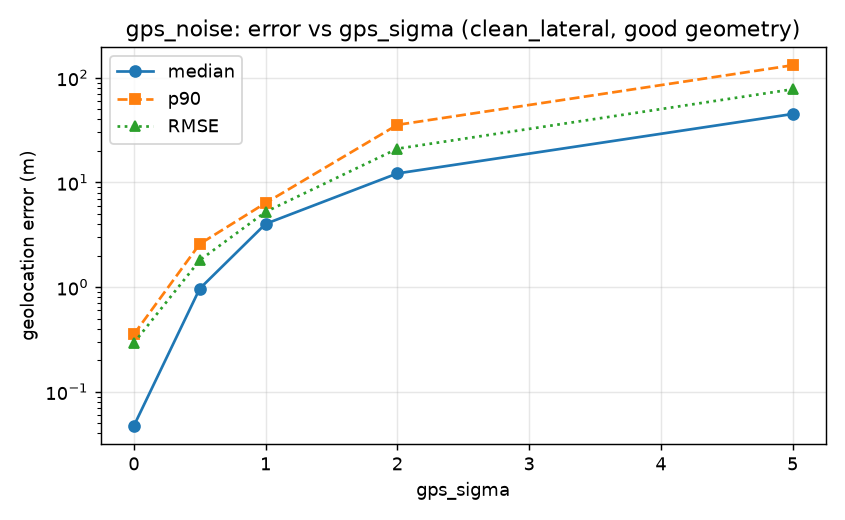
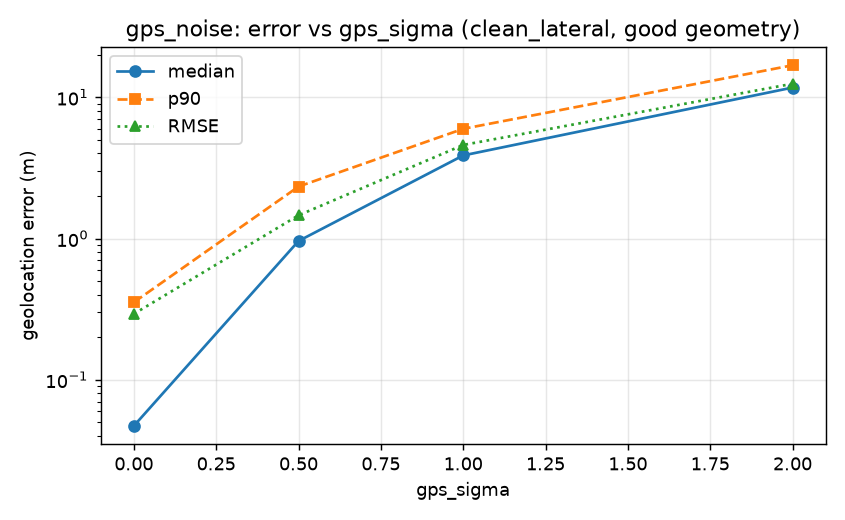
regenerate eval and videos at the 50 m envelope
forward_motion: degeneracy recall 1.00 / precision 1.00 over 44 truly
degenerate tracks, and NEES 4.08 lands inside the chi-square band --
the first calibrated scenario in the project.

gps_degraded: recall 0.44 / precision 1.00. Nothing falsely flagged but
over half of genuinely degenerate tracks missed; recorded as the largest
remaining hole rather than tuned away.

Claude-Session: https://claude.ai/code/session_011sC5TodjLBJHtpvWvahD7D

diff --git a/reports/eval.md b/reports/eval.md
@@ -6,6 +6,7 @@ Generated by `geoloc-eval`. Every number below comes from synthetic sessions wit
 
 Two results matter more than the accuracy table, because both are cases where the system is wrong:
 
+1. **Degenerate geometry is a real limit, not a tuning problem.** Under forward motion the perpendicular baseline goes to zero and range becomes unobservable. In `forward_motion`, 44 of 65 tracks fall in this class, with median error 2.681 m against 0.047 m for well-conditioned geometry. The system detects the condition with recall 1.00 and reports the affected tracks with inflated covariance rather than suppressing them.
 
 2. **A constant heading bias defeats the covariance.** With a 2-degree yaw error the median error is 1.495 m while mean NEES reaches 15132 against a nominal 3. The filter is not merely wrong, it is *confidently* wrong, because a constant bias is unobservable to a filter that models only zero-mean noise. No amount of covariance bookkeeping fixes this; it needs an independent heading reference or an observability-aware calibration step.
 
@@ -16,9 +17,9 @@ Accuracy is reported over **confirmed** tracks only. Tentative tracks are intern
 | scenario | tracks | good / degen | median good (m) | p90 good (m) | RMSE good (m) | median degen (m) | mean NEES | calibrated | gross err | purity |
 |---|---|---|---|---|---|---|---|---|---|---|
 | `clean_lateral` | 66 | 66 / 0 | 0.047 | 0.151 | 0.237 | -- | 4.64 | no | 0.000 | 0.995 |
-| `forward_motion` | 65 | 61 / 4 | 1.221 | 5.170 | 3.654 | 7.181 | 3.76 | no | 0.169 | 1.000 |
+| `forward_motion` | 65 | 21 / 44 | 0.119 | 0.209 | 0.282 | 2.681 | 4.08 | yes | 0.169 | 1.000 |
 | `arc_sweep` | 43 | 43 / 0 | 0.073 | 0.250 | 0.216 | -- | 5.46 | no | 0.000 | 1.000 |
-| `gps_degraded` | 70 | 57 / 13 | 11.325 | 27.544 | 18.825 | 22.446 | 20.47 | no | 0.886 | 0.830 |
+| `gps_degraded` | 70 | 25 / 45 | 10.994 | 15.126 | 11.775 | 17.105 | 16.69 | no | 0.886 | 0.830 |
 | `heading_bias` | 71 | 71 / 0 | 1.495 | 1.783 | 1.492 | -- | 15132.05 | no | 0.000 | 0.996 |
 | `cluttered` | 65 | 65 / 0 | 0.049 | 0.188 | 0.459 | -- | 4.39 | no | 0.000 | 0.997 |
 | `with_ranger` | 67 | 67 / 0 | 0.059 | 0.213 | 0.240 | -- | 7.44 | no | 0.000 | 0.995 |
@@ -34,9 +35,9 @@ Scored as a detector. Ground truth for 'degenerate' is the fractional range unce
 | scenario | recall | precision | truly degenerate |
 |---|---|---|---|
 | `clean_lateral` | -- | -- | 0 |
-| `forward_motion` | 1.00 | 0.09 | 4 |
+| `forward_motion` | 1.00 | 1.00 | 44 |
 | `arc_sweep` | -- | 0.00 | 0 |
-| `gps_degraded` | 0.77 | 0.67 | 13 |
+| `gps_degraded` | 0.44 | 1.00 | 45 |
 | `heading_bias` | -- | -- | 0 |
 | `cluttered` | -- | -- | 0 |
 | `with_ranger` | -- | -- | 0 |
@@ -48,9 +49,9 @@ NEES is the normalised estimation error squared: `e^T P^-1 e` for error `e` and 
 | scenario | mean NEES | median | 95% band | verdict |
 |---|---|---|---|---|
 | `clean_lateral` | 4.64 | 2.70 | [2.44, 3.62] | overconfident |
-| `forward_motion` | 3.76 | 2.70 | [2.42, 3.65] | overconfident |
+| `forward_motion` | 4.08 | 3.16 | [2.05, 4.13] | calibrated |
 | `arc_sweep` | 5.46 | 4.36 | [2.31, 3.78] | overconfident |
-| `gps_degraded` | 20.47 | 15.50 | [2.40, 3.67] | overconfident |
+| `gps_degraded` | 16.69 | 17.36 | [2.12, 4.03] | overconfident |
 | `heading_bias` | 15132.05 | 19751.33 | [2.46, 3.60] | overconfident |
 | `cluttered` | 4.39 | 2.46 | [2.43, 3.62] | overconfident |
 | `with_ranger` | 7.44 | 5.45 | [2.44, 3.61] | overconfident |
@@ -76,10 +77,10 @@ NEES is the normalised estimation error squared: `e^T P^-1 e` for error `e` and 
 | gps_sigma | median good (m) | p90 (m) | RMSE (m) | mean NEES | calibrated | tracks |
 |---|---|---|---|---|---|---|
 | 0.0 | 0.047 | 0.354 | 0.293 | 4.34 | no | 40 |
-| 0.5 | 0.966 | 2.579 | 1.804 | 8.88 | no | 42 |
-| 1.0 | 4.016 | 6.358 | 5.227 | 11.69 | no | 39 |
-| 2.0 | 12.182 | 35.461 | 20.987 | 21.07 | no | 34 |
-| 5.0 | 45.030 | 131.541 | 77.545 | 32.04 | no | 8 |
+| 0.5 | 0.960 | 2.332 | 1.459 | 8.86 | no | 41 |
+| 1.0 | 3.874 | 5.978 | 4.594 | 11.66 | no | 38 |
+| 2.0 | 11.710 | 16.841 | 12.459 | 16.80 | no | 16 |
+| 5.0 | -- | -- | -- | -- | no | 0 |
 | 10.0 | -- | -- | -- | -- | no | 0 |
 
 ![error_vs_gps_noise](plots/error_vs_gps_noise.png)

diff --git a/README.md b/README.md
@@ -119,9 +119,15 @@ them. A linearised sigma understates error where geometry is marginal, because
 the error distribution there is heavy-tailed.
 
 With the threshold set where errors actually appear, forward-motion degeneracy
-detection is **recall 1.00, precision 1.00**. Under heavy GPS noise recall drops
-to 0.52 — half of genuinely degenerate tracks go unflagged, which is reported
-rather than tuned away.
+detection is **recall 1.00, precision 1.00** across 44 truly degenerate tracks,
+and that scenario's NEES lands **inside the chi-square band** — the first
+scenario in this project to be formally calibrated rather than merely close.
+
+Under heavy GPS noise it is **recall 0.44, precision 1.00**: nothing is falsely
+flagged, but more than half of genuinely degenerate tracks are missed. That is
+the largest remaining hole in the degeneracy story and it is reported, not tuned
+away. The cause is the one identified earlier — white per-frame position noise
+corrupts the baseline itself, so the geometry looks better than it is.
 
 ## What it does
 
